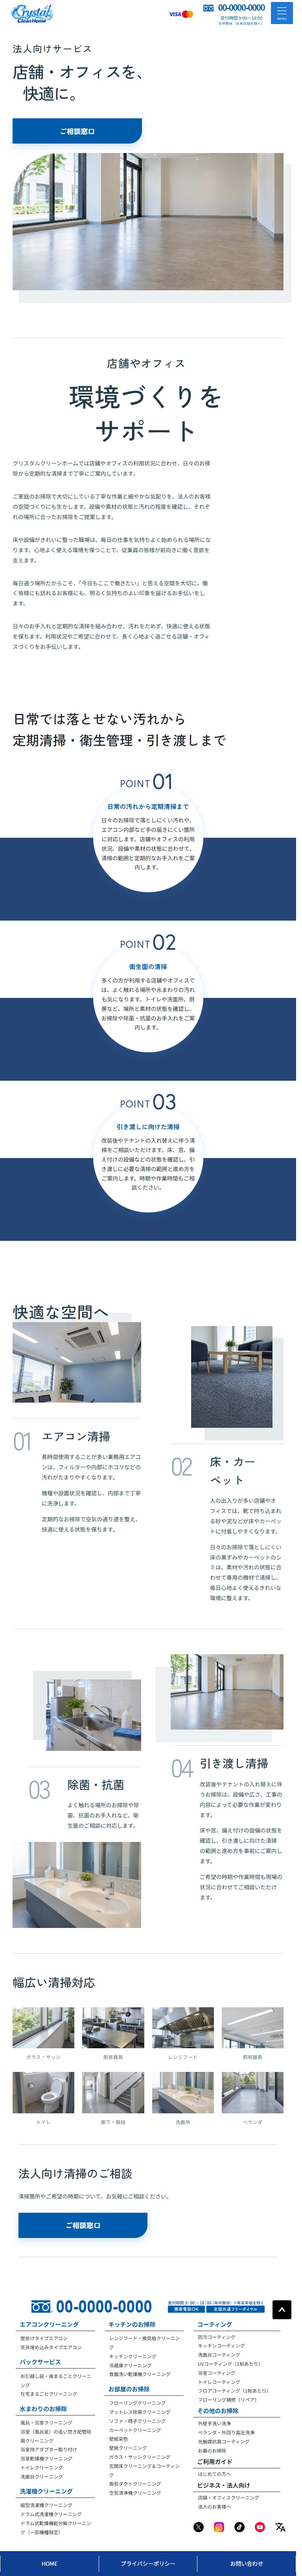
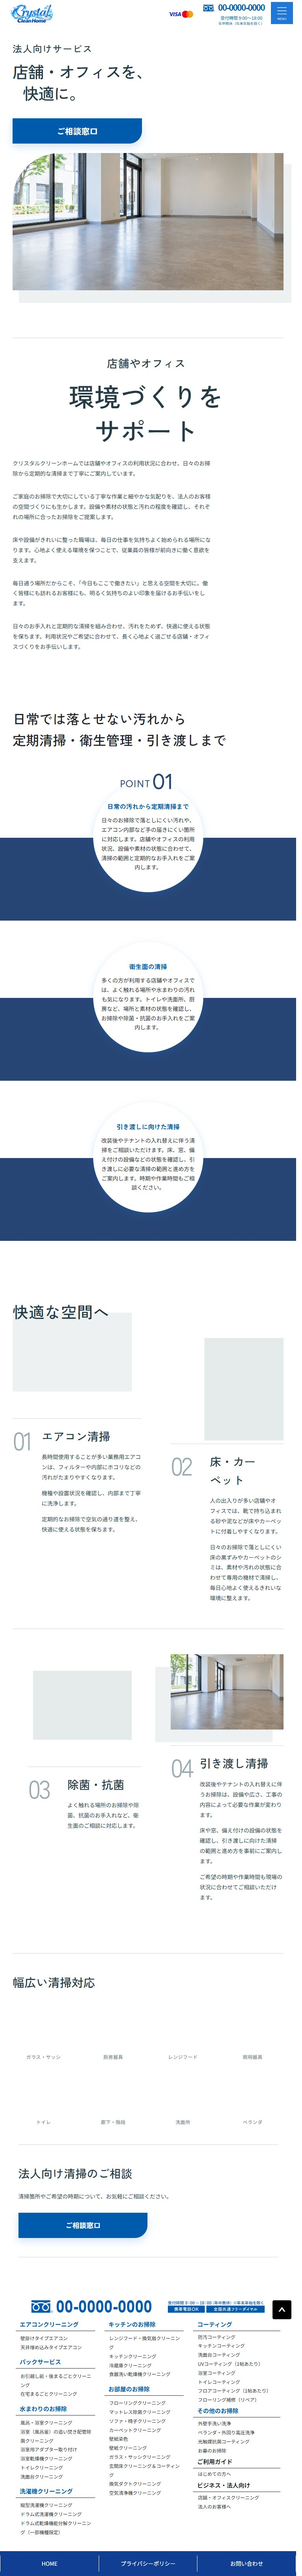
CHG-2026-10-08-015: enlarge cover CTA label
Increase the cover label about 18 percent while keeping button frames and closing CTA unchanged. Verify size, position, label fit and overflow at eight viewport sizes; synchronize current specification and evidence.

diff --git a/prototypes/home-wireframe/business/wireframe.css b/prototypes/home-wireframe/business/wireframe.css
@@ -25,7 +25,7 @@ body .office-wf :is(.office-wf__cover-word,.office-wf__display-word,.office-wf__
 .office-wf__inquiry-surface { display:flex; box-sizing:border-box; align-items:center; justify-content:center; }
 .office-wf__inquiry-text { font-size:18px; }
 .office-wf__cover-title .office-wf__inquiry-link { margin-top:24px; }
-.office-wf__cover-title .office-wf__inquiry-text { min-height:0; }
+.office-wf__cover-title .office-wf__inquiry-text { min-height:0; font-size:21px; }
 .office-wf__inquiry-link:focus-visible { outline:2px solid #005bac; outline-offset:6px; }
 .office-wf__intro { display:grid; grid-template-columns:5fr 6fr; gap:64px; max-width:1040px; margin-top:80px; padding-top:48px; border-top:1px solid var(--office-wf-rule); container-type:inline-size; }
 body .office-wf .office-wf__statement { position:relative; top:-20px; margin:0; line-height:1.4; letter-spacing:.025em; text-align:center; }
@@ -99,7 +99,7 @@ body .office-wf .office-wf__statement { position:relative; top:-20px; margin:0; 
  .office-wf__cover-word span { padding-left:.44em; }
  .office-wf__cover-title .office-wf__inquiry-link { width:clamp(270px,29.5cqw,420px); max-width:none; margin:clamp(20px,6.5svh,52px) 0 0 16px; border-bottom-right-radius:clamp(28px,3.2cqw,46px); }
  .office-wf__cover-title .office-wf__inquiry-surface { min-height:clamp(64px,11.5svh,92px); border-bottom-right-radius:clamp(28px,3.2cqw,46px); }
- .office-wf__cover-title .office-wf__inquiry-text { font-size:clamp(20px,1.96cqw,28px); }
+ .office-wf__cover-title .office-wf__inquiry-text { font-size:clamp(24px,2.31cqw,33px); }
  .office-wf__cover-photo { position:absolute; top:0; right:0; bottom:16px; left:calc(max(40px,(100% - 1280px) / 2) + min(300px,20cqw)); }
  .office-wf__cover-photo img { height:100%; max-height:none; aspect-ratio:auto; }
  .office-wf__cover-photo::before { inset:24px 0 -16px 24px; }
@@ -152,7 +152,6 @@ body .office-wf .office-wf__statement { position:relative; top:-20px; margin:0; 
  .office-wf__cover-word { display:block; font-size:clamp(26px,6.6vw,44px); padding:12px 0; }
  .office-wf__cover-word span { display:block; padding-left:18px; }
  .office-wf__cover-title .office-wf__inquiry-link { margin-top:16px; }
- .office-wf__cover-title .office-wf__inquiry-text { font-size:18px; }
  .office-wf__cover-photo::before { inset:14px -8px -20px 8px; }
  .office-wf__intro { margin-top:40px; padding-top:28px; gap:24px; }
  .office-wf .office-wf__intro-copy p + p { margin-top:24px; }

diff --git a/prototypes/home-wireframe/business/index.html b/prototypes/home-wireframe/business/index.html
@@ -73,7 +73,7 @@
 <script src="/assets/js/cart-core.js?v=2026100528" defer></script>
 <script src="/assets/js/site-cart.js?v=2026100603" defer></script>
 <meta name="robots" content="noindex,nofollow">
-<link rel="stylesheet" href="/home-wireframe/business/wireframe.css?v=2026100832">
+<link rel="stylesheet" href="/home-wireframe/business/wireframe.css?v=2026100833">
 </head>
 <body class="c-office-cleaning office-wf-page"><header class="c-header">
 <div class="c-header__logo c-header-logo"><a class="c-header-logo__link" href="/"> <img alt="クリスタルクリーンホーム" class="c-flex-image" height="55" src="/assets/images/crystal-clean-home.png" style="width:160px;height:82px;object-fit:contain;object-position:left center" width="160"/></a></div>

diff --git a/prototypes/home-wireframe/business/build.py b/prototypes/home-wireframe/business/build.py
@@ -35,7 +35,7 @@ def build():
     head = re.sub(r'<title>.*?</title>', '<title>法人向け清掃 ワイヤーフレーム | Crystal Clean Home</title>', head)
     head = re.sub(r'<link[^>]*href="/assets/css/office-cleaning\.css[^>]*>', '', head)
     head = re.sub(r'<meta\b[^>]*name="robots"[^>]*>', '', head)
-    head = head.replace('</head>', '<meta name="robots" content="noindex,nofollow">\n<link rel="stylesheet" href="/home-wireframe/business/wireframe.css?v=2026100832">\n</head>')
+    head = head.replace('</head>', '<meta name="robots" content="noindex,nofollow">\n<link rel="stylesheet" href="/home-wireframe/business/wireframe.css?v=2026100833">\n</head>')
     header = re.search(r'<header\b[^>]*class="c-header"[^>]*>.*?</header>', current, re.S).group()
     footer = re.search(r'<footer\b[^>]*class="c-footer\b[^>]*>.*?</footer>', current, re.S).group()
 

diff --git a/変更履歴.md b/変更履歴.md
@@ -2313,3 +2313,15 @@ CHG-2026-10-06-012公開確認：ソース1a377a9／Pages158edc0／Actions374540
 - 同期した仕様書：Crystal-Clean-Home_仕様書.md、Crystal-Clean-Home_要件定義書.md。
 - 関連コミット：本変更のGitコミット。
 - 確認結果：8サイズで紹介の中央揃え・文字の大小・段落間隔・相談タイトル・CTA枠寸法と文字の収まりを確認。紹介の5段落が生成元と一致し、横はみ出し・JS例外なし。保存画面を目視。CSS版数2026100832。
+
+## CHG-2026-10-08-015 表紙CTAの文字をもう一回り拡大
+
+- 決定日：2026-10-08。
+- 人間からの要求：「ご相談窓口」が横長のCTAに対して小さく見えるため、枠を保って文字を15〜20％ほど大きく試す。
+- 決定内容：表紙CTAの文字をPC最大28pxから33px、991px以下18pxから21pxへ拡大。PC下限は24pxとし、枠の寸法・位置を保つ。
+- 変更理由：ファーストビューの大きな見出しとボタン枠に対して、相談導線の文字に存在感を持たせる。
+- 影響範囲：法人ローカル案のCTA文字・生成HTML・CSS版数2026100833・確認記録。
+- 維持する範囲：ボタン枠の寸法と位置、末尾CTA、原稿、写真、共通UI、リンクとデモ動作。
+- 同期した仕様書：要件定義書・仕様書・タスク確認表・案README。
+- 関連コミット：本変更のGitコミット。
+- 確認結果：8サイズで文字の拡大率、枠と末尾CTAの維持、文字の収まり、横はみ出しとJS例外を確認。保存画面を目視。

diff --git a/prototypes/home-wireframe/business/README.md b/prototypes/home-wireframe/business/README.md
@@ -50,7 +50,7 @@
 
 03／04誌面の上下余白はPC64px・スマホ48px、一覧はPC48px・スマホ32px。8点一覧は3:2比率、PC4列・スマホ2列。末尾相談枠は最大660pxの1列で、見出し・1文の説明・ボタンだけを左寄せにまとめます。
 
-見出し・訴求・CTAはZen Kaku Gothic New、本文・写真ラベルはNoto Sans JP。共通正本site-typography.cssを使用。上下CTAはHOME青色カードの共通クラスで色・白文字・角丸・影・光が流れるホバーを再利用し、矢印は表示しません。表紙PC最大420×92px、文字を最大28px（スマホ18px）へ拡大。文字の最小高を解除して枠高を保ちます。末尾通常PC288×64px。両方とも「ご相談窓口」・/contact/business/・data-demo-dialogによる既存デモ操作で、生成ヘルパーは1つです。
+見出し・訴求・CTAはZen Kaku Gothic New、本文・写真ラベルはNoto Sans JP。共通正本site-typography.cssを使用。上下CTAはHOME青色カードの共通クラスで色・白文字・角丸・影・光が流れるホバーを再利用し、矢印は表示しません。表紙PC最大420×92px、文字を最大33px（991px以下21px）へ拡大。文字の最小高を解除して枠高を保ちます。末尾通常PC288×64px。両方とも「ご相談窓口」・/contact/business/・data-demo-dialogによる既存デモ操作で、生成ヘルパーは1つです。
 
 ## 視覚確認したパンフレット実例
 

diff --git a/Crystal-Clean-Home_タスク確認表.md b/Crystal-Clean-Home_タスク確認表.md
@@ -432,3 +432,9 @@ CHG-2026-10-06-012公開確認：ソース1a377a9／Pages158edc0／Actions374540
 - [x] 8サイズで文字の収まり・中央揃え・段落間隔・本文一致・CTA枠の維持・横はみ出しなしを確認し、保存画面を目視。
 - [x] 現行仕様・README・確認記録とCSS版数2026100832を同期。
 - [ ] 本編への採用・公開・実機受入（ローカル検討用）。
+
+## CHG-2026-10-08-015 表紙CTAの文字の拡大
+
+- [x] 表紙CTAを枠の寸法・位置を保って約18％拡大。PC最大33px、991px以下21px。
+- [x] 8サイズで拡大率・文字の収まり・枠の維持・末尾CTAの維持・横はみ出し・JS例外を確認。
+- [x] 仕様・README・CSS版数2026100833と確認記録を同期。保存画面を目視。
